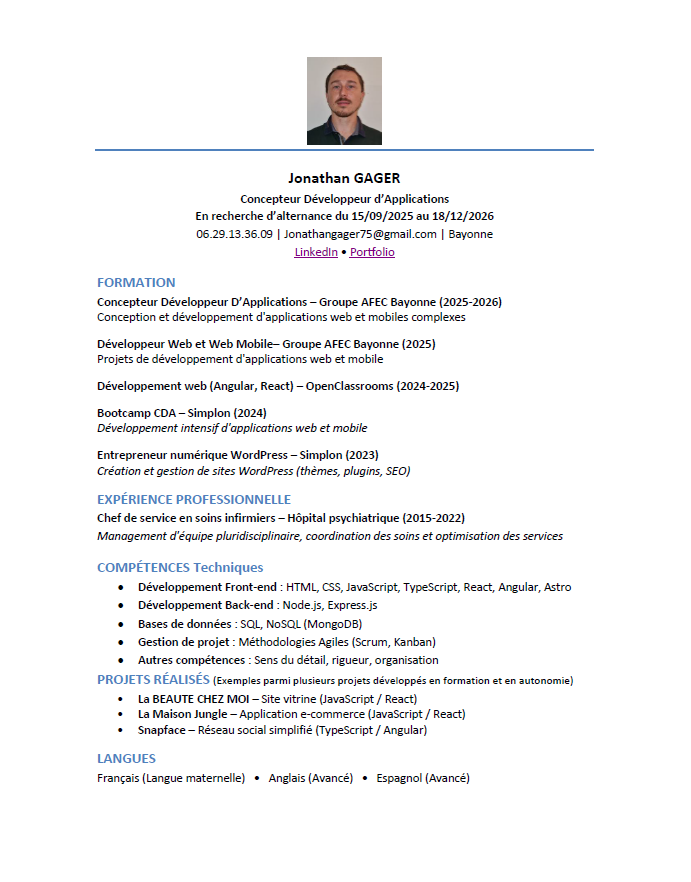
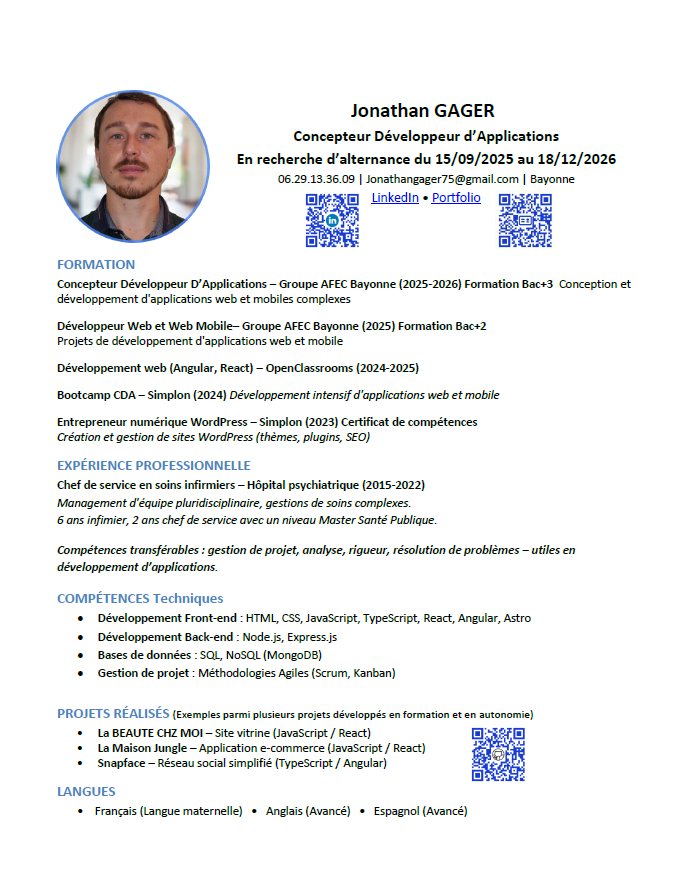
Add modification infos

diff --git a/src/const/const.js b/src/const/const.js
@@ -1,6 +1,18 @@
 export const studies = [
   {
-    title: "Bootcamp concepteur développeur d'application",
+    title: "Concepteur Développeur d’Applications – Groupe AFEC Bayonne",
+    date: "09/2025 – 12/2026",
+  },
+  {
+    title: "Développeur Web et Web Mobile – Groupe AFEC Bayonne",
+    date: "03/2025 – 08/2025",
+  },
+  {
+    title: "Développement web (Angular, React) – OpenClassrooms",
+    date: "2024 – 2025",
+  },
+  {
+    title: "Bootcamp Concepteur Développeur d'Applications",
     date: "03/2024 – 07/2024",
   },
   {
@@ -8,7 +20,7 @@ export const studies = [
     date: "2024",
   },
   {
-    title: "Entrepreneur numérique CMS WordPress", 
+    title: "Entrepreneur numérique CMS WordPress",
     date: "2023",
   },
   {
@@ -16,6 +28,7 @@ export const studies = [
     date: "2015 – 2022",
   },
 ];
+
 
 export const IconKeys = {
   html: "html",
